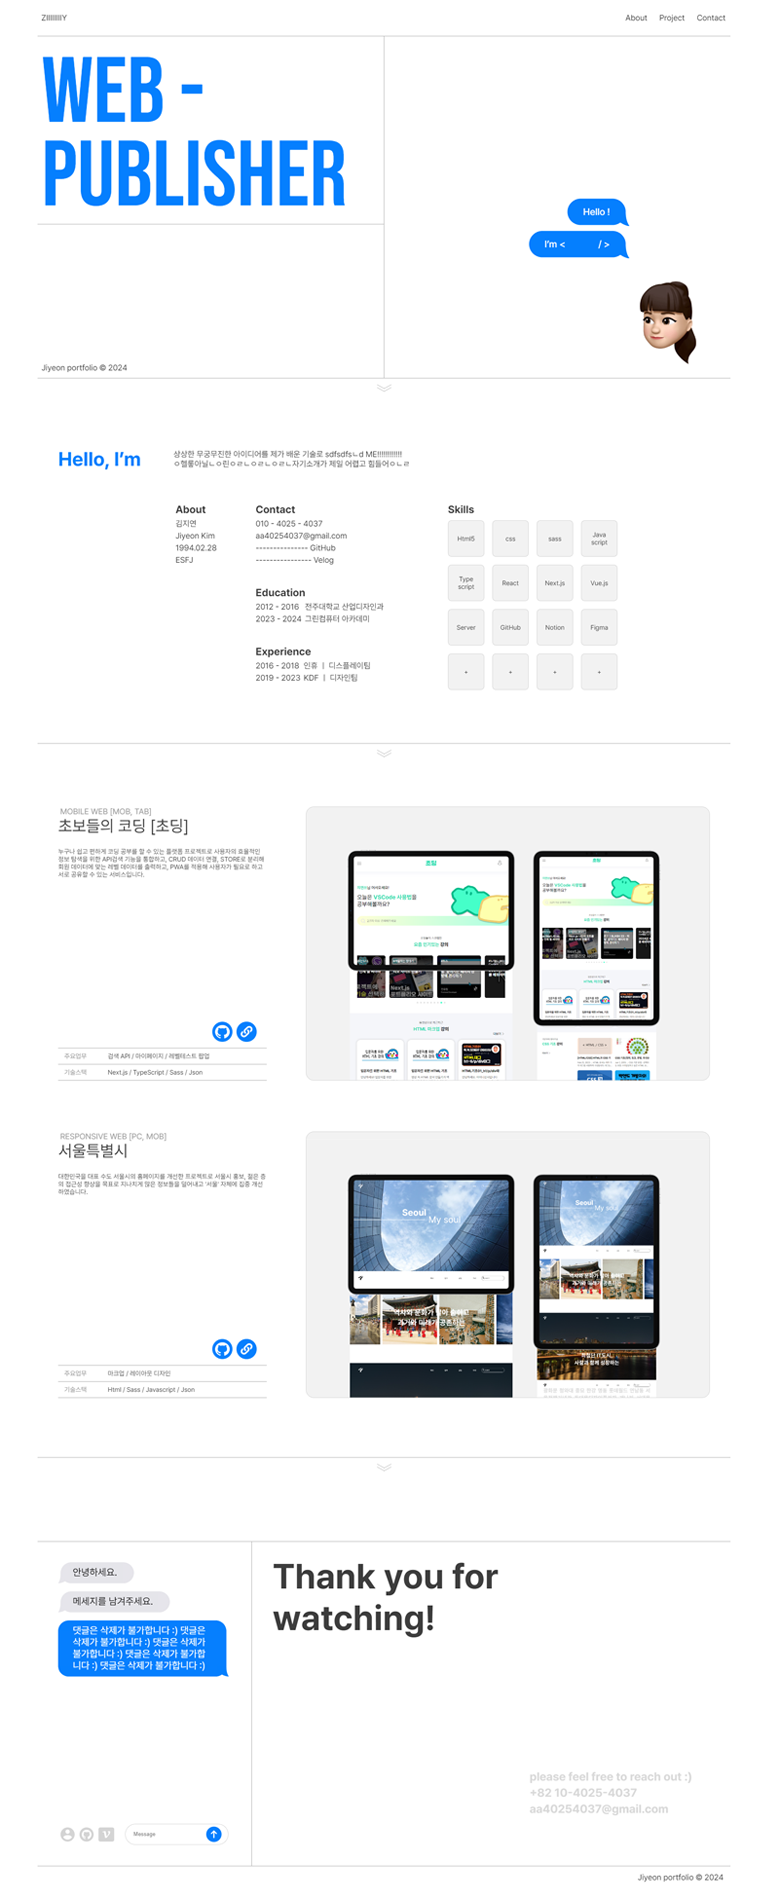
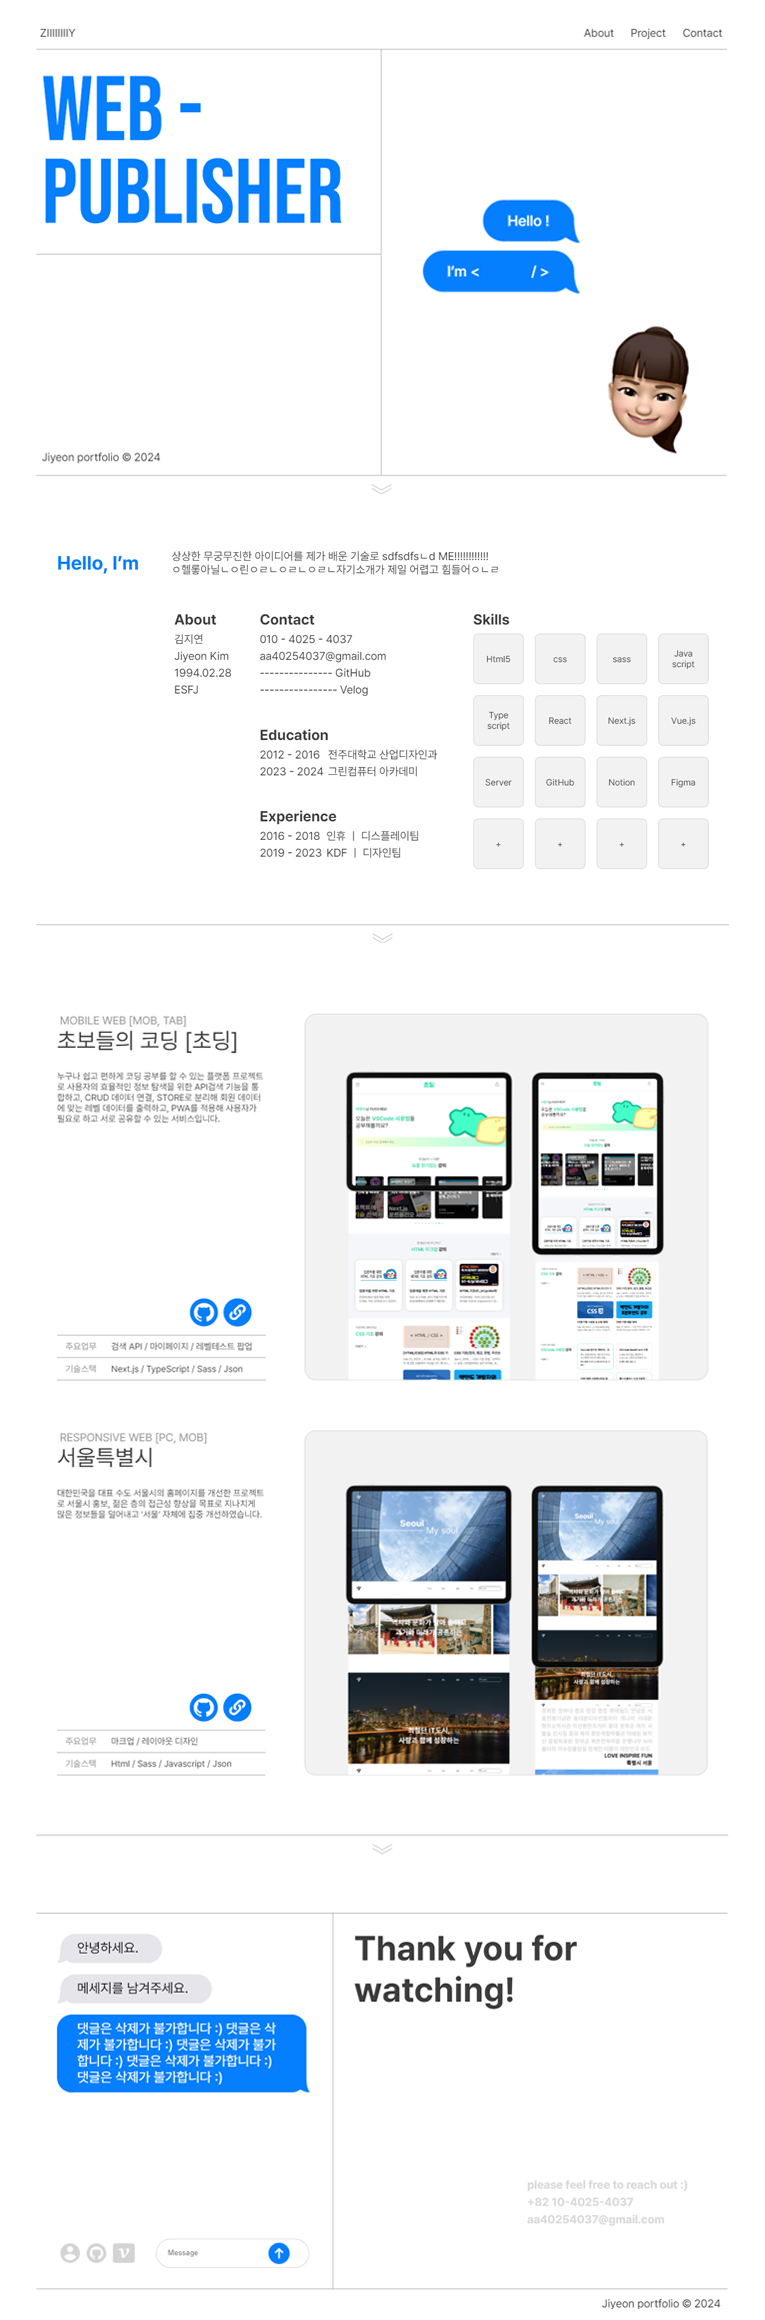
20240401pm

diff --git a/src/common.scss b/src/common.scss
@@ -784,7 +784,6 @@
         border-bottom: 1px solid #A0A0A0;
         margin-top: 10%;
         @include flexbox();
-        position: relative;
 
         .c_left {
 
@@ -905,7 +904,6 @@
 
                     input {
                         border: 0;
-                        padding: 5px;
                         background: none;
                     }
 
@@ -933,13 +931,12 @@
                 font-size: 4.5vw;
             }
 
-            .please {
-                font-size: 1.5vw;
+            .call {
+                margin-top: 10%;
+                font-size: 30px;
                 color: rgb(160, 160, 160, 0.4);
                 font-weight: bold;
-                position: absolute;
-                top: 70%;
-                left: 71%;
+
 
                 >p {
                     padding: 3px 0;
@@ -950,16 +947,25 @@
 
     @include responsive(xxl) {
         .c_main {
+            .c_left {
+                .msg_list {}
+
+                .msg_write {
+                    .msg_input {
+                        input {
+                            width: 89%;
+                        }
+                    }
+                }
+            }
+
             .c_right {
                 h3 {
                     font-size: 3.5vw;
                 }
 
-                .please {
-                    padding-left: 10px;
-                    font-size: 2vw;
-                    top: 85%;
-                    left: 67%;
+                .call {
+                    font-size: 20px;
                 }
             }
         }
@@ -969,7 +975,7 @@
 
     @include responsive(xl) {
         .c_main {
-            display: block;
+            flex-direction: column-reverse;
             border-top: none;
 
             .c_left {
@@ -991,11 +997,14 @@
             }
 
             .c_right {
-                margin: 6% auto;
                 border: none;
 
                 h3 {
-                    font-size: 40px;
+                    font-size: 8vw;
+                }
+
+                .call {
+                    font-size: 4vw;
                 }
             }
         }
@@ -1006,15 +1015,13 @@
                     .msg_btn {
                         display: flex;
                     }
-
-                    .msg_input {}
                 }
             }
         }
     }
 
     .c_title_sub {
-        padding: 0.5% 1%;
+        padding: 1%;
         @include flexbox(sb);
 
         p {}

diff --git a/src/component/About.jsx b/src/component/About.jsx
@@ -10,8 +10,9 @@ function About({ menuRef, menuclick }) {
             <article className='a_main'>
                 <div className='a_title'>
                     <h4>Hello, I’m</h4>
-                    <p>상상한 무궁무진한 아이디어를 제가 배운 기술로 sdfsdfsㄴd ME!!!!!!!!!!!!<br />
-                        ㅇ헬롷아닐ㄴㅇ린ㅇㄹㄴㅇㄹㄴㅇㄹㄴ자기소개가 제일 어렵고 힘들어ㅇㄴㄹ </p>
+                    <p>주변에 좋은 영향을 전하며 사용하기 쉬운 UI와 기억에 남는 UX를 개발하고,<br />
+                        지속적인 배움과 성장 속에서 발전하는, 어제보다 더 나은 내가 되기 위한 목표를 가지고 꾸준히 성장 중인 김지연입니다.</p>
+
                 </div>
 
                 <div className='a_conts'>
@@ -64,8 +65,8 @@ function About({ menuRef, menuclick }) {
                         <h5>Skills</h5>
                         <div className='a_skill_flex'>
                             <div>Html5</div>
-                            <div>css</div>
-                            <div>sass</div>
+                            <div>Css</div>
+                            <div>Sass</div>
                             <div>Java<br />script</div>
                             <div>Type<br />script</div>
                             <div>React</div>

diff --git a/src/component/Project.jsx b/src/component/Project.jsx
@@ -34,10 +34,10 @@ function Project({ data, menuRef, menuclick }) {
                 </div>
 
                 <div className='p_right'>
-                    <a href={item.webUrl}>
+                    <a href={item.webUrl} target="_blank">
                         <div className='p_mockup_w' target="_blank">
                             <p className='ipadW'>
-                                <span className='box01'><img src={item.img02} alt="img01" /></span>
+                                <span className='box01'><img src={item.img01} alt="img01" /></span>
                                 <img src='/img/iPadPro11_w.png' alt="오류" /></p>
 
                         </div>

diff --git a/src/component/Contact.jsx b/src/component/Contact.jsx
@@ -91,8 +91,7 @@ function Contact(props) {
                 <div className='c_right'>
                     <h3>Thank you for<br /> watching!</h3>
 
-                    <div className='please'>
-                        <p>please feel free to reach out :&#41;</p>
+                    <div className='call'>
                         <p>+82 10-4025-4037</p>
                         <p>aa40254037@gmail.com</p>
                     </div>
